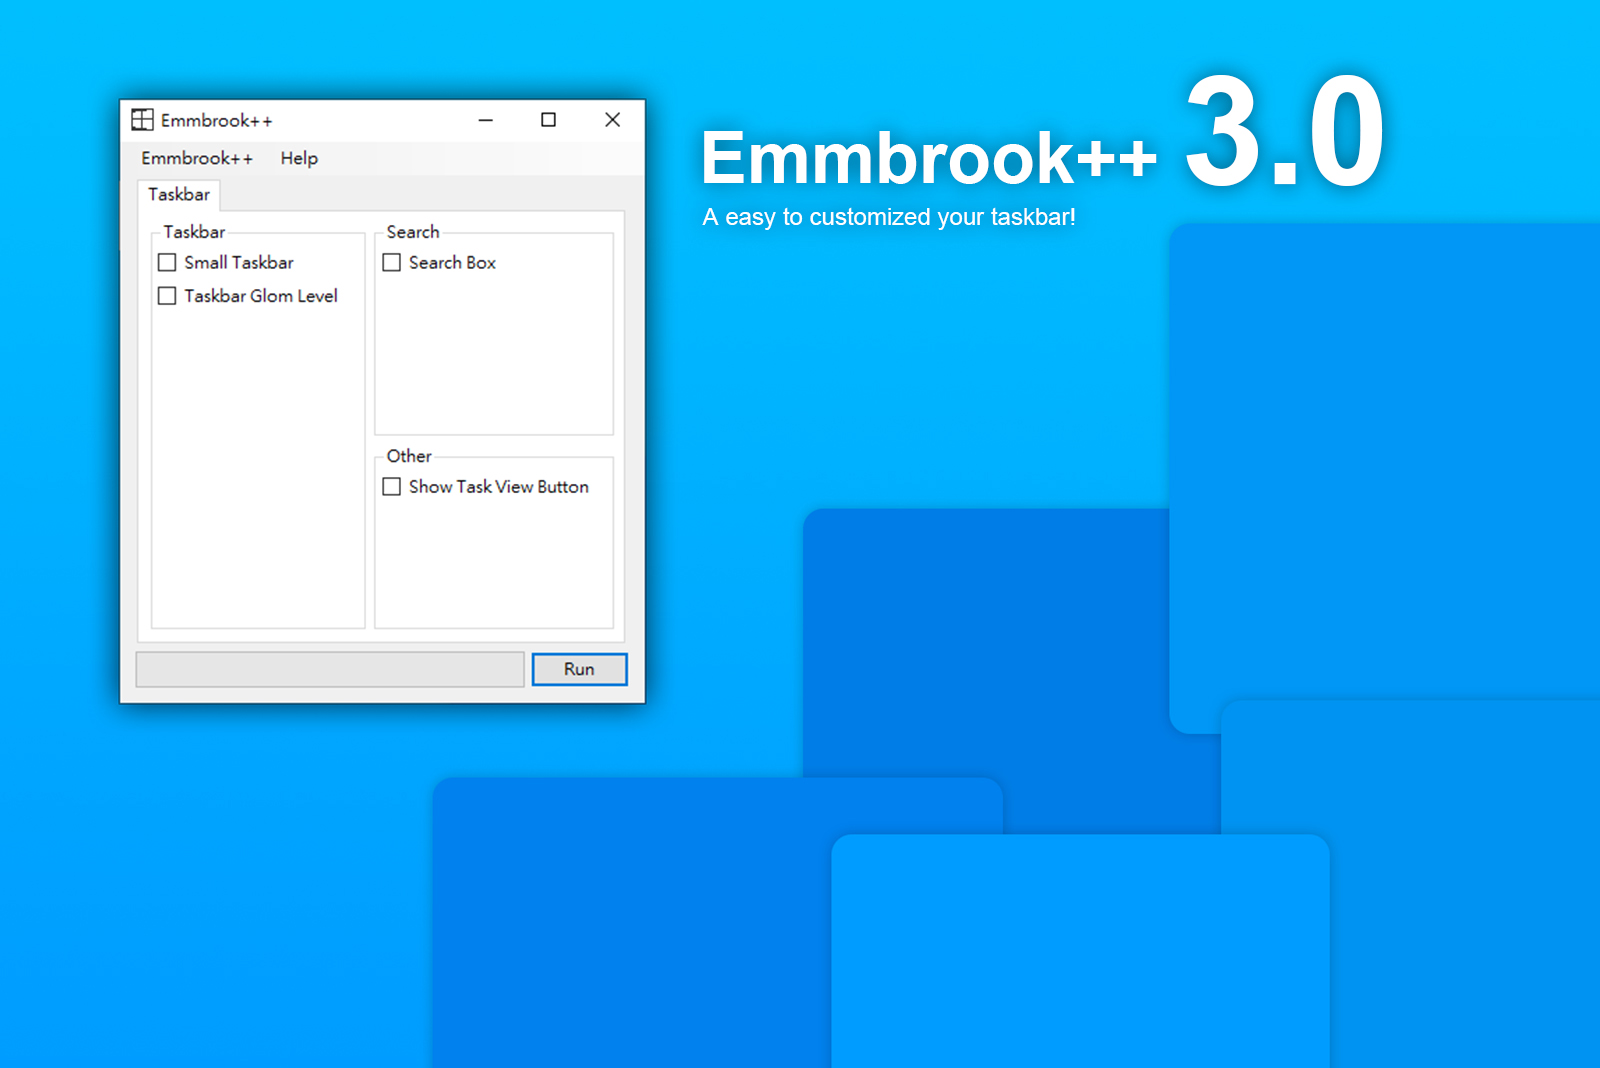
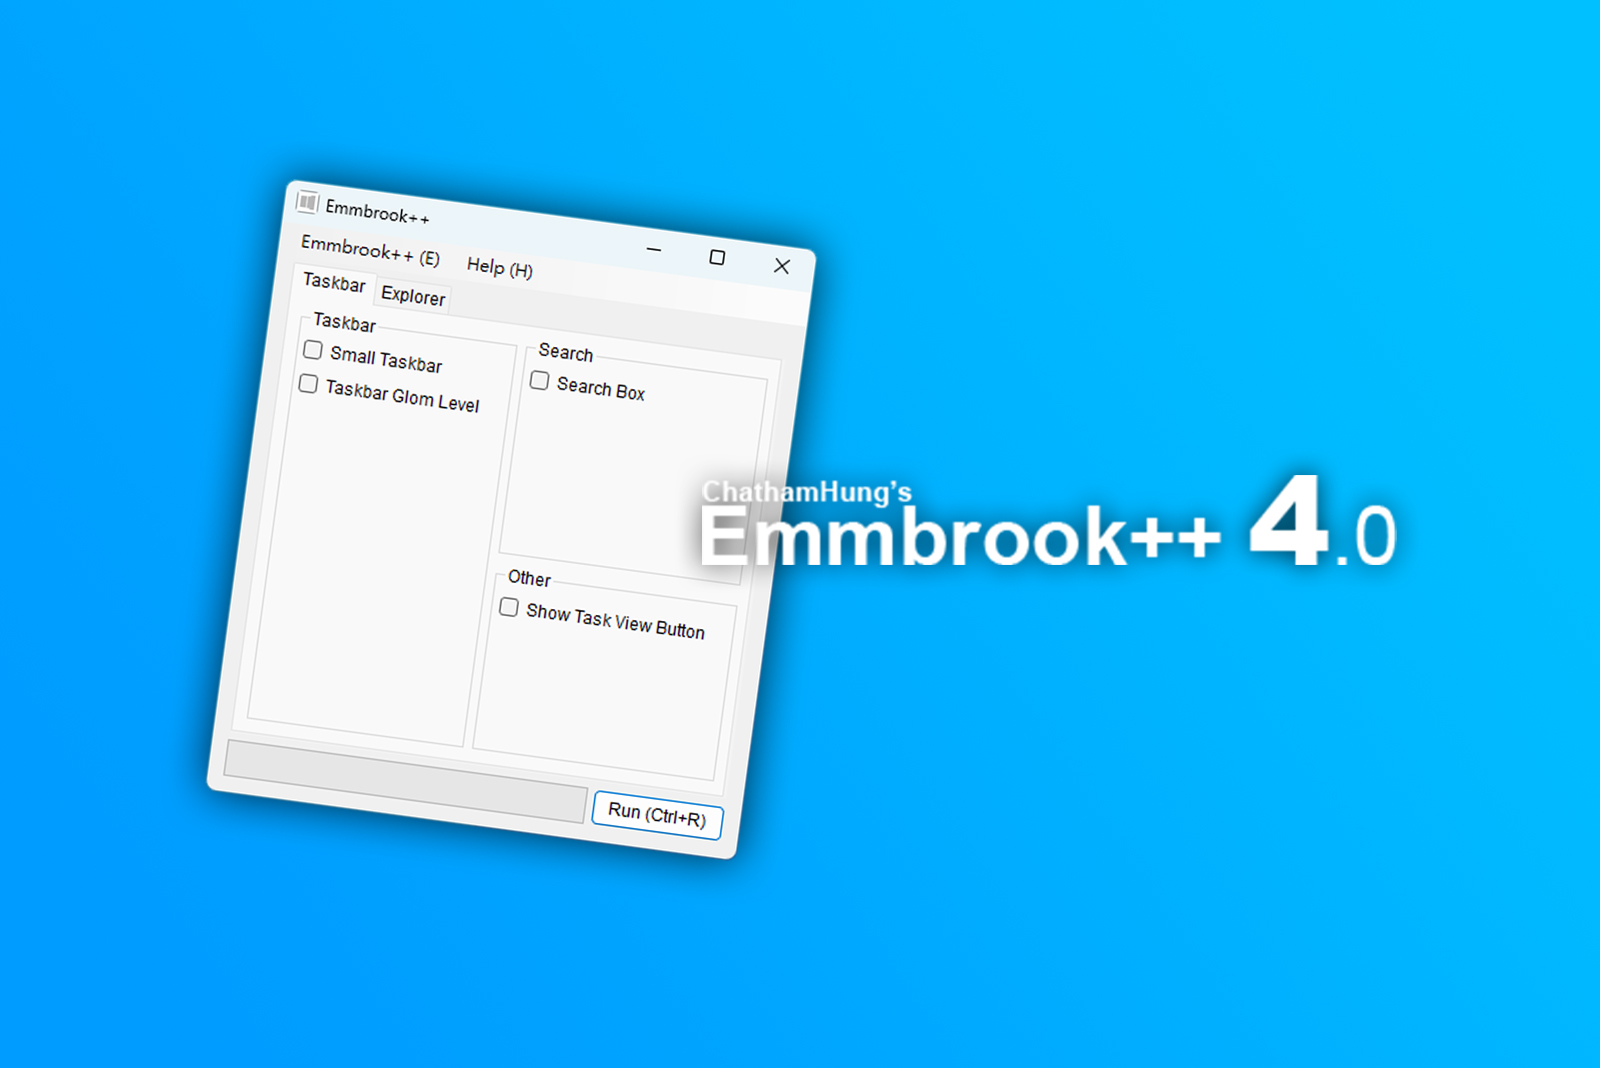
Add files via upload

diff --git a/download/emmbrookplusplus.html b/download/emmbrookplusplus.html
@@ -31,19 +31,14 @@
                     </div>
                     <div class="post-body">
                         <h3>Emmbrook++</h3>
-                        <div class="post-info"><span>By ChathamHung</span><span>Last post update: 24/01/2024, Last software update: 13/09/2023</span></div>
+                        <div class="post-info"><span>By ChathamHung</span><span>Last post update: 23/02/2024, Last software update: 05/02/2024</span></div>
                         <p>A easy to customized your taskbar!</p>
                         <figure class="figure"><img class="rounded img-fluid figure-img" src="../assets/img/download/emmbrookplusplus/image1.png" alt="A generic square placeholder image with rounded corners in a figure.">
-                            <figcaption class="figure-caption">Emmbrook++ 3.0 Screenshot</figcaption>
+                            <figcaption class="figure-caption">Emmbrook++ 4.0 Screenshot</figcaption>
                         </figure>
                         <h4>What is Emmbrook++?</h4>
                         <p>Emmbrook++ is a software that can be used in schools computers, Because of the limitations of school computers, I developed this software to quickly set the task list! Wish you happy using it!</p>
                         <div class="row">
-                            <div class="col-md-6">
-                                <figure class="figure"><img class="rounded img-fluid figure-img" src="../assets/img/download/emmbrookplusplus/image2.jpg" alt="A generic square placeholder image with rounded corners in a figure.">
-                                    <figcaption class="figure-caption">Set you taskbar to any one</figcaption>
-                                </figure>
-                            </div>
                             <div class="col">
                                 <p>It can set your taskbar to any you like!</p>
                             </div>
@@ -53,7 +48,7 @@
                         <h4>Download Emmbrook++</h4>
                         <div class="row">
                             <div class="col">
-                                <p>Emmbrook++ is NOT&nbsp;Virus, and NOT&nbsp;Administrator Privileges Run!</p><span><strong><span style="color: rgb(0, 0, 0);">Notice:&nbsp;&nbsp;</span></strong>Running slowly, Please wait.</span><br><br><span style="font-size:17px;"><strong>Emmbrook++ 3.0:&nbsp;</strong></span><button class="btn btn-primary" type="button" onclick="window.location.href=&#39;https://github.com/ChathamHung/EmmbrookPlusPlus/releases/download/v3.0/Emmbrook++_3.0_x64.exe&#39;;">Download Portable EXE (43.3 MB)</button><span style="font-size:17px;"><strong>&nbsp;OR&nbsp;</strong></span><button class="btn btn-primary" type="button" onclick="window.location.href=&#39;https://github.com/ChathamHung/EmmbrookPlusPlus/releases/download/v3.0/Emmbrook++_3.0_x64.zip&#39;;">Download Portable ZIP (59.61 MB)</button><br><br><span style="font-size:17px;"><strong>Emmbrook++ 2.0:&nbsp;</strong></span><button class="btn btn-primary" type="button" onclick="window.location.href=&#39;https://github.com/ChathamHung/EmmbrookPlusPlus/releases/download/v2.0/Emmbrook++_2.0_x64.exe&#39;;">Download Portable EXE (45.2 MB)</button><br><br><span style="font-size:17px;"><strong>Emmbrook++ 1.0:&nbsp;</strong></span><button class="btn btn-primary" type="button" onclick="window.location.href=&#39;https://github.com/ChathamHung/EmmbrookPlusPlus/releases/download/Emmbrook%2B%2B/Emmbrook++_1.0.zip&#39;;">Download Portable ZIP (155 MB)</button>
+                                <p>Emmbrook++ is NOT&nbsp;Virus, and NOT&nbsp;Administrator Privileges Run!</p><button class="btn btn-primary" type="button" onclick="window.location.href=&#39;https://github.com/ChathamHung/EmmbrookPlusPlus/&#39;">See on Github</button><br><br><span><span style="color:rgb(0, 0, 0);">Notice:&nbsp;&nbsp;</span>Running slowly, Please wait.</span><br><br><span style="font-size:17px;"><strong>Emmbrook++ 4.0:&nbsp;</strong></span><button class="btn btn-primary" type="button" onclick="window.location.href=&#39;https://github.com/ChathamHung/EmmbrookPlusPlus/releases/download/v4.0/Emmbrook++.zip&#39;;">Download Portable ZIP (125 MB)</button><br><br><span style="font-size:17px;"><strong>Emmbrook++ 3.0:&nbsp;</strong></span><button class="btn btn-primary" type="button" onclick="window.location.href=&#39;https://github.com/ChathamHung/EmmbrookPlusPlus/releases/download/v3.0/Emmbrook++_3.0_x64.exe&#39;;">Download Portable EXE (43.3 MB)</button><span style="font-size:17px;"><strong>&nbsp;OR&nbsp;</strong></span><button class="btn btn-primary" type="button" onclick="window.location.href=&#39;https://github.com/ChathamHung/EmmbrookPlusPlus/releases/download/v3.0/Emmbrook++_3.0_x64.zip&#39;;">Download Portable ZIP (59.61 MB)</button><br><br><span style="font-size:17px;"><strong>Emmbrook++ 2.0:&nbsp;</strong></span><button class="btn btn-primary" type="button" onclick="window.location.href=&#39;https://github.com/ChathamHung/EmmbrookPlusPlus/releases/download/v2.0/Emmbrook++_2.0_x64.exe&#39;;">Download Portable EXE (45.2 MB)</button><br><br><span style="font-size:17px;"><strong>Emmbrook++ 1.0:&nbsp;</strong></span><button class="btn btn-primary" type="button" onclick="window.location.href=&#39;https://github.com/ChathamHung/EmmbrookPlusPlus/releases/download/Emmbrook%2B%2B/Emmbrook++_1.0.zip&#39;;">Download Portable ZIP (155 MB)</button>
                             </div>
                         </div>
                     </div>

diff --git a/download.html b/download.html
@@ -34,11 +34,11 @@
                         <div class="row">
                             <div class="col-lg-5"><a href="download/emmbrookplusplus.html"><img class="rounded img-fluid" src="assets/img/download/emmbrookplusplus.jpg"></a></div>
                             <div class="col-lg-7"><a href="download/emmbrookplusplus.html"><h3>Emmbrook++</h3></a>
-                                <div class="info"><span class="text-muted">13/09/23 by&nbsp;<a href="https://github.com/ChathamHung">ChathamHung</a></span></div>
+                                <div class="info"><span class="text-muted">05/02/24 by&nbsp;<a href="https://github.com/ChathamHung">ChathamHung</a></span></div>
                                 <p>A easy to customized your taskbar!</p><button class="btn btn-outline-primary btn-sm" type="button" onclick="window.location.href=&#39;download/emmbrookplusplus.html&#39;;">Read More</button>
                             </div>
                         </div>
-                    </div>
+                    </div><span>More coming soon!</span>
                 </div>
             </div>
         </section>

diff --git a/index.html b/index.html
@@ -4,23 +4,12 @@
 <head>
     <meta charset="utf-8">
     <meta name="viewport" content="width=device-width, initial-scale=1.0, shrink-to-fit=no">
-    <title>Home - ChathamHung.github.io</title>
+    <title>Home - ChathamHug.github.io</title>
     <link rel="stylesheet" href="assets/bootstrap/css/bootstrap.min.css">
     <link rel="stylesheet" href="https://fonts.googleapis.com/css?family=Montserrat:400,400i,700,700i,600,600i&amp;display=swap">
     <link rel="stylesheet" href="assets/fonts/simple-line-icons.min.css">
     <link rel="stylesheet" href="assets/css/baguetteBox.min.css">
     <link rel="stylesheet" href="assets/css/vanilla-zoom.min.css">
-    <!-- 
-    
-    SlideToShutDown.exe 
-
-    https://www.itechtics.com/set-wallpaper-windows/
-
-    https://www.youtube.com/watch?v=N821Cux4bLE
-    
-    https://github.com/ChathamHung/EmmbrookPlusPlus/releases/download/v4.0/Emmbrook++.zip
-    
-    -->
 </head>
 
 <body>
